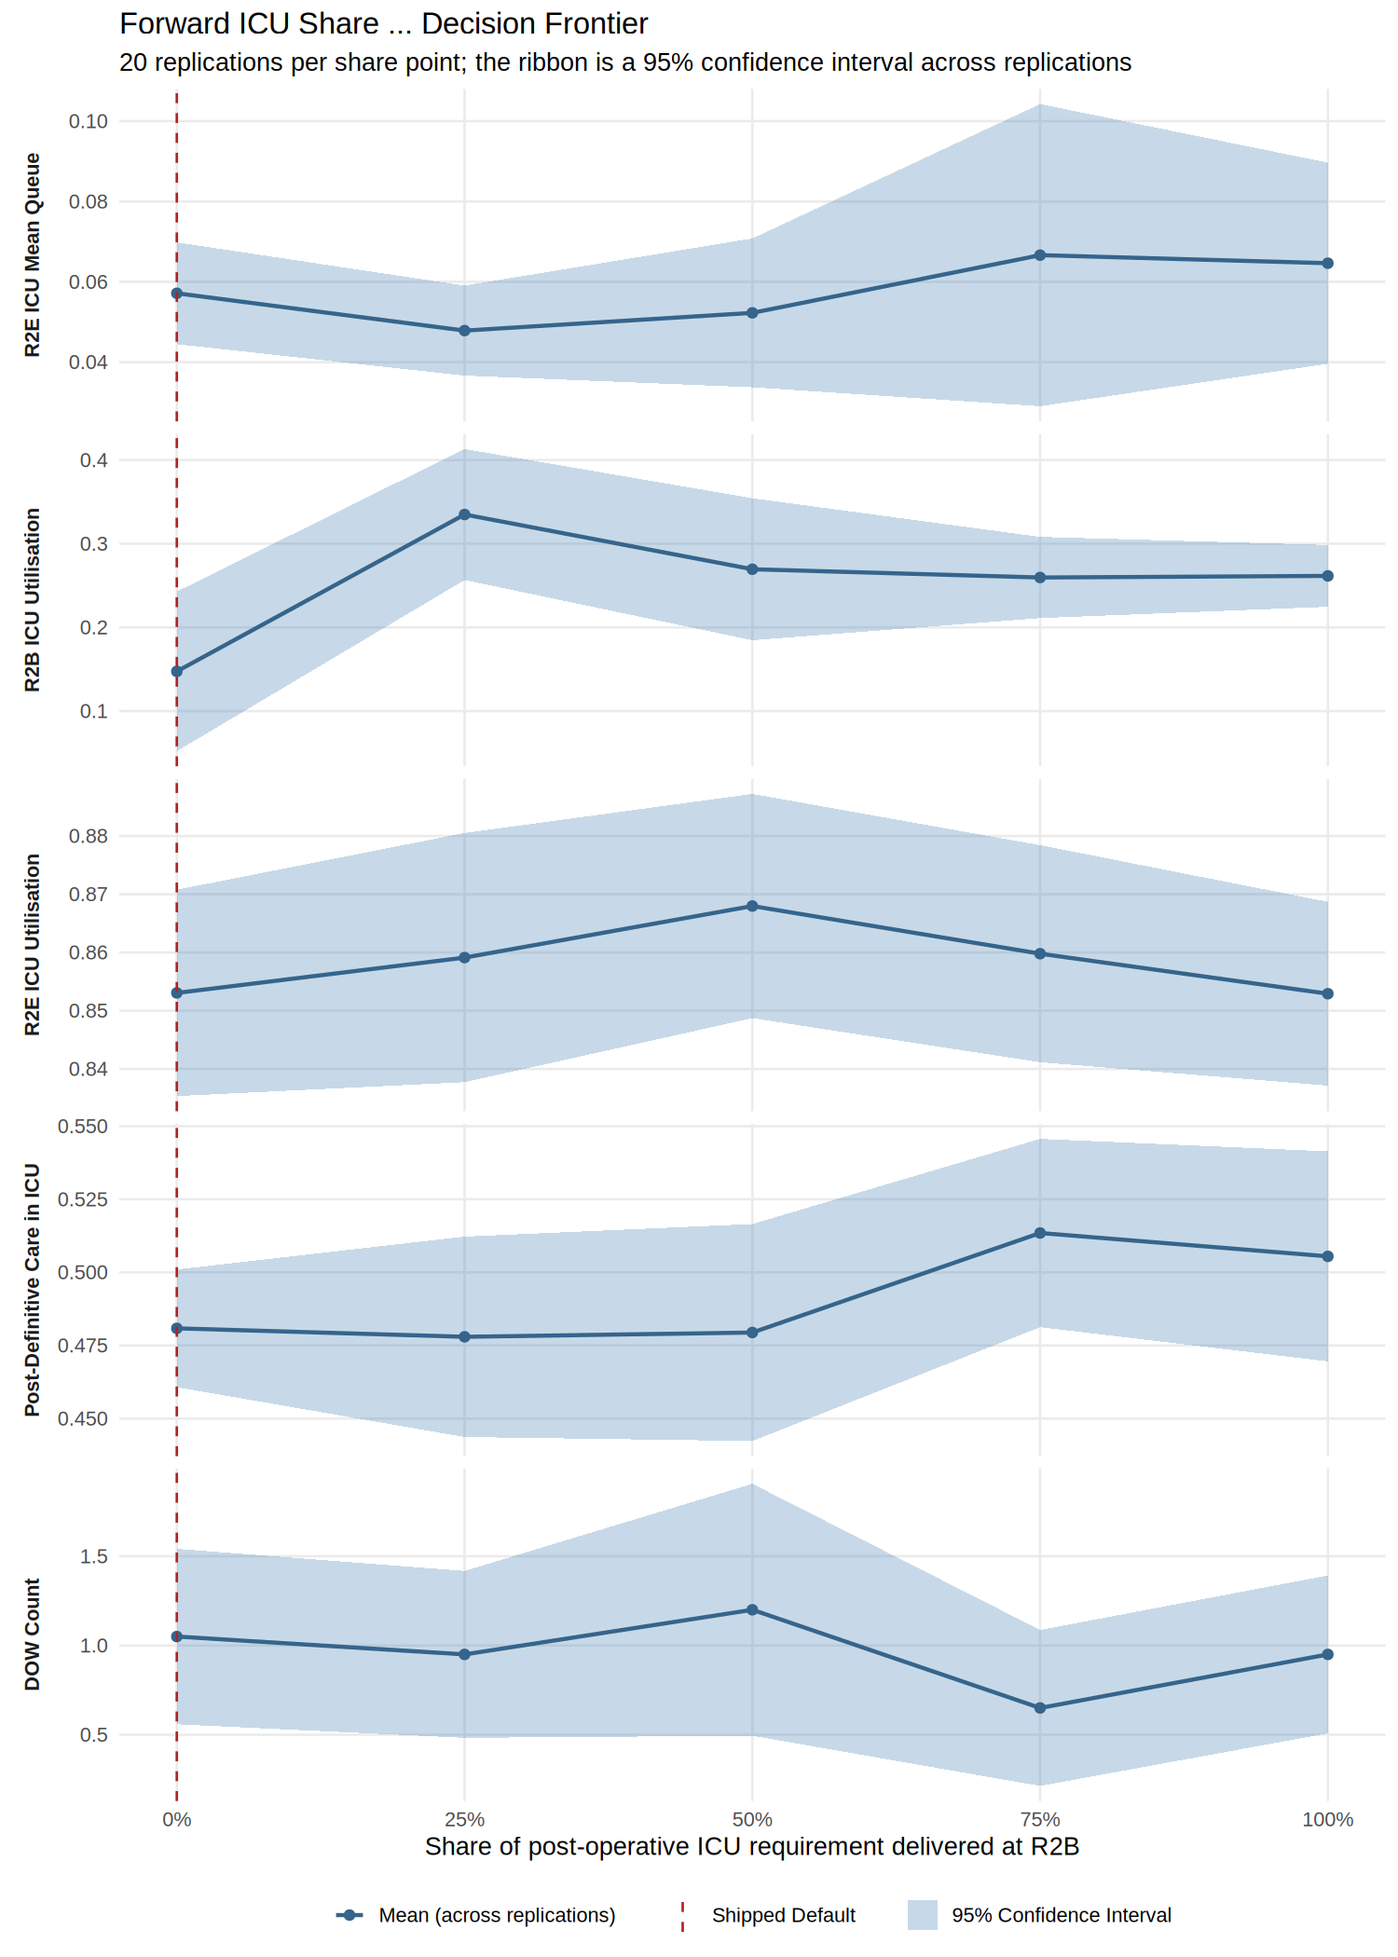
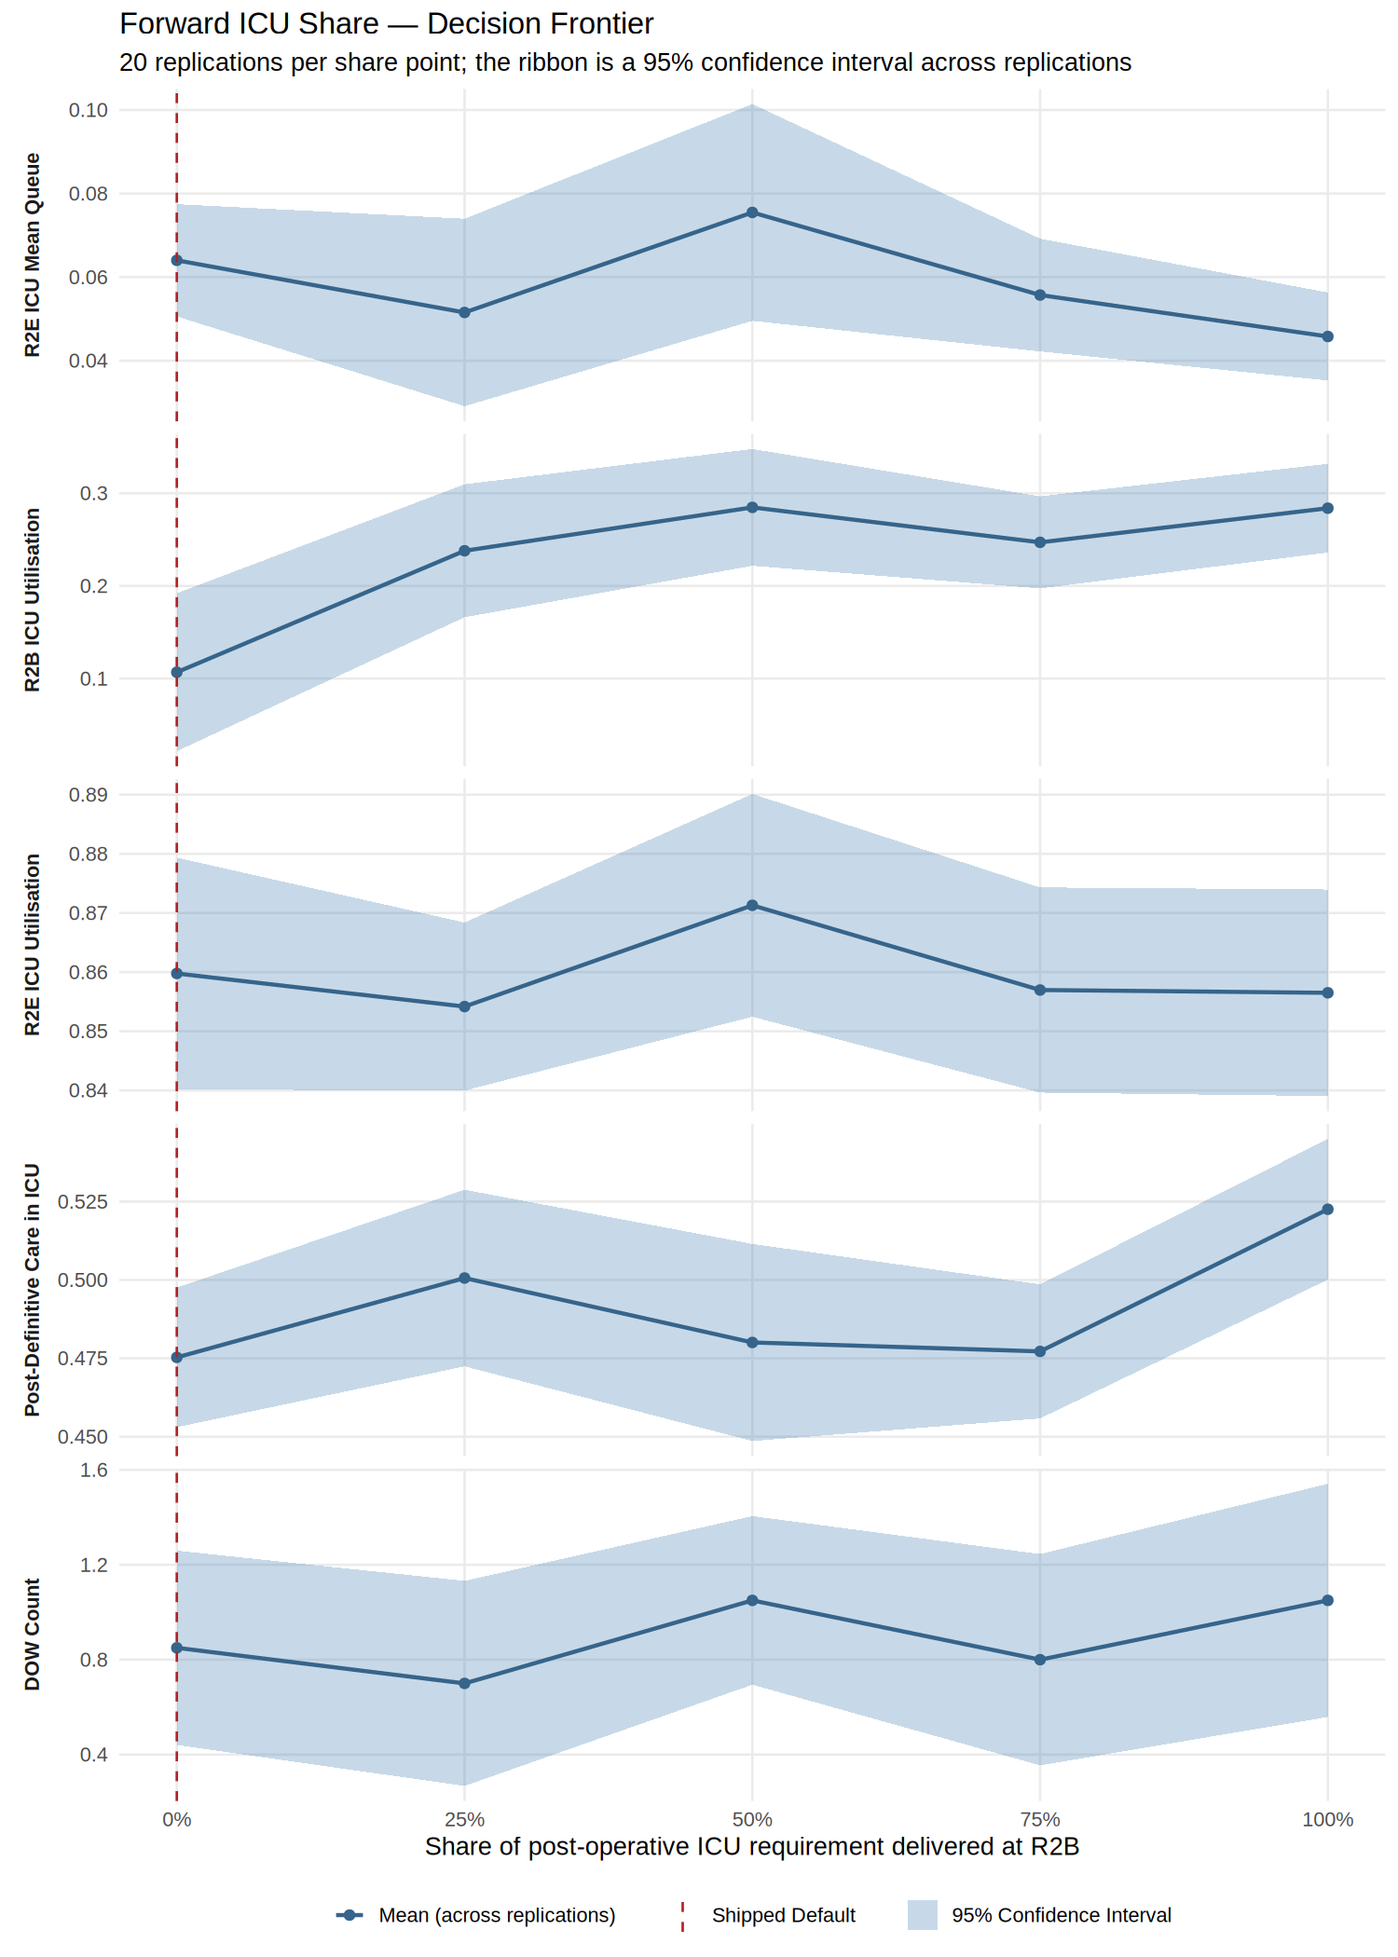
docs(issue-189): regenerate the single-run analysis sweeps over independent replications
docs/Single_Run_Analysis.md was the one published document not covered by the
earlier commits, and it carries three sets of multi-replication intervals from
the affected path.

Re-measured over independent replications:
- transport fleet-size sweep, 9 points x 10 replications
- forward ICU share sweep, 5 points x 20 replications

Both conclusions survive intact. The fleet still carries margin well beyond one
vehicle of headroom, with the queue collapsing to zero by two vehicles on both
platforms; the forward ICU share lever is still flat across its whole range.
images/transport_capacity_margin_by_fleet_size.png and
images/r2b_icu_share_frontier.png are regenerated with them.

The transport utilisation column is now described accurately rather than as
merely noisy: it rises with fleet size on both platforms, which is backwards,
and the interval on HX240M at three vehicles spans 1.3% to 30.6%. Only the
queue column carries weight at ten replications.

The pre- versus post-Issue-43 comparison keeps its original intervals and says
so in place. Its "before" arm is a configuration no longer in the codebase, so
it cannot be re-run, and the paragraph's conclusion — that the intervals
overlap and the comparison does not reach significance — is only reinforced by
intervals that should be wider.

Refs #189

diff --git a/docs/Single_Run_Analysis.md b/docs/Single_Run_Analysis.md
@@ -178,13 +178,15 @@ Relieving the ICU constraint moves casualties through the pre-OT gate rather tha
 
 Sub-optimal care (red — surgery proceeded despite ICU saturation, Priority 1 override to holding-bed recovery) and delayed care (orange — OT entry deferred pending ICU availability, Priority 2+) cluster on the higher-arrival days later in the run, consistent with cumulative ICU demand outstripping the four-bed establishment as surgical volume accumulates. `outputs/r2e_icu_gating_daily.csv` and `outputs/post_op_pathway_summary.csv` provide the underlying daily and pathway-level counts.
 
-**50-replication validation (seed = NULL, 30 days) confirms the effect generalises beyond seed 42.** Comparing 50 independent replications pre- and post-Issue-43: mean R2E ICU utilisation fell from **74.1% to 60.2%** — a substantial, consistently-observed reduction in ICU load, not a seed-42 artefact. Mean DOW/run rose from **0.84 (95% CI [0.58, 1.10]) to 1.00 (95% CI [0.74, 1.26])** — the two confidence intervals overlap substantially, so this specific comparison does not reach conventional statistical significance at n = 50 (DOW remains a rare event; a properly powered before/after comparison would need a considerably larger replication count). The increase is, however, fully attributable to the new post-operative checkpoint: it contributed a mean of 0.10 DOW/run on its own (5 of 50 replications), accounting for essentially the entire point-estimate shift. Within that checkpoint, the qualitative design intent held using the real (non-stress-tested) parameters: the post-op hold pathway's realised DOW rate (2 deaths / 1,223 patients = 0.16%) was roughly **2.8× the ICU pathway's rate** (3 deaths / 5,085 patients = 0.06%) — the elevated-risk pathway is measurably, not just theoretically, riskier at baseline casualty rates, though the small absolute counts mean this ratio itself carries wide uncertainty.
+**50-replication validation (seed = NULL, 30 days) confirms the effect generalises beyond seed 42.** Comparing 50 independent replications pre- and post-Issue-43: mean R2E ICU utilisation fell from **74.1% to 60.2%** — a substantial, consistently-observed reduction in ICU load, not a seed-42 artefact. Mean DOW/run rose from **0.84 (95% CI [0.58, 1.10]) to 1.00 (95% CI [0.74, 1.26])** — the two confidence intervals overlap substantially, so this specific comparison does not reach conventional statistical significance at n = 50 (DOW remains a rare event; a properly powered before/after comparison would need a considerably larger replication count). The increase is, however, fully attributable to the new post-operative checkpoint: it contributed a mean of 0.10 DOW/run on its own (5 of 50 replications), accounting for essentially the entire point-estimate shift. Within that checkpoint, the qualitative design intent held using the real (non-stress-tested) parameters: the post-op hold pathway's realised DOW rate (2 deaths / 1,223 patients = 0.16%) was roughly **2.8× the ICU pathway's rate** (3 deaths / 5,085 patients = 0.06%) — the elevated-risk pathway is measurably, not just theoretically, riskier at baseline casualty rates, though the small absolute counts mean this ratio itself carries wide uncertainty. The intervals in this paragraph alone are as originally computed, over replications that were antithetically paired while the interval divided by the replication count, which makes them narrower than the runs entitle them to be. They are not recomputed because the comparison is against a configuration that no longer exists in the codebase, so the "before" arm cannot be re-run; the paragraph's own conclusion, that the two intervals overlap and the comparison does not reach significance at n = 50, is only reinforced by intervals that should be wider. Every other interval in this document has been regenerated over independent replications.
 
 ![Alt text](../images/r2eheavy_gantt.png)
 
 ![Alt text](../images/r2eheavy_surgeries.png)
 
 > **Reproducibility note:** the seed-42 30-day figures throughout this document were regenerated after the surgical population was split between the staged damage control pathway and a single-stage definitive procedure, in an ad hoc R 4.3.3 sandbox rather than the project's pinned `rocker/rstudio:4.4.2` Dev Container, following the same practice and caveat used for prior unpinned-sandbox figures in this project (see the `CLAUDE.md` Key Parameters provenance caveat). As a check on that sandbox, the same seed-42 run made immediately *before* the change reproduced every documented figure in `CLAUDE.md` exactly, including total casualties (385), the R2B surgical decision point and bypass counts, the first and second surgery counts, the post-operative and post-definitive pathway splits and the deferred-surgery count. The change is not random-number-stream-neutral: roughly half of operated casualties now take one theatre episode and one intensive care episode instead of two of each, so beds and theatres free sooner, and because Issue #18's force-regeneration loop couples arrival timing to casualty-event timing, even total casualty count moves (385 to 386). Setting every damage control rate to 1.0 reproduces the pre-change run bit-identically, which is what establishes the split as a generalisation of the previous model rather than a replacement for it. The 50-replication figures reported below and elsewhere in this document were not recomputed except where explicitly stated.
+
+> **Currency note (Issue #189):** the multi-replication intervals in this document were subsequently regenerated over independent replications, after antithetic pairing was withdrawn from `run_replications()` (see README [Multi-run Replication Framework](../README.md#multi-run-replication-framework)). The pairing made the pair, not the replication, the unit the design supplied, while every interval divided by the replication count, so the point estimates stood and the widths did not. The transport fleet-size sweep, the forward ICU share sweep and the in-theatre share were re-measured and their figures below reflect that; `images/transport_capacity_margin_by_fleet_size.png` and `images/r2b_icu_share_frontier.png` were regenerated with them. The seed-42 single-run figures are unaffected, the correction consuming no random draws and reproducing the run bit-identically. The one exception is noted in place, at the pre- versus post-Issue-43 comparison.
 
 When examined in system context, the combined OT capacity of two R2B elements and one R2E Heavy is adequate for a single combat brigade under Falklands-equivalent casualty rates [[1]](#References). However, if this system were applied to a deployed division, surgical and holding capacity would be grossly insufficient even if only one brigade was assumed to be in contact at any time. The modelled scenario also does not account for mass-casualty events or the elevated casualty production rates reported in FORECAS modelling of campaigns such as Okinawa or Vietnam, both of which would expose this deficit [[1]](#References).
 
@@ -206,13 +208,13 @@ Under seed 42 (30 days), the queue for every PMV Ambulance and HX240M unit remai
 
 | Fleet size | PMV Ambulance mean queue (95% CI) | PMV Ambulance mean utilisation | HX240M mean queue (95% CI) | HX240M mean utilisation |
 |---|---|---|---|---|
-| 1 | 0.0395 (0.0339–0.0452) | 32.5% | 0.0038 (0.0020–0.0056) | 10.0% |
-| 2 | 0.0008 (0.0004–0.0012) | 16.3% | 0.0000 | 20.2% |
-| 3 (current) | 0.00004 (0–0.0001) | 20.8% | 0.0000 | 20.8% |
-| 4 (current) | 0.0000 | 10.8% | 0.0000 | 7.2% |
-| 5 | 0.0000 | 14.2% | — | — |
+| 1 | 0.0390 (0.0308–0.0472) | 30.4% | 0.0024 (0.0013–0.0035) | 9.6% |
+| 2 | 0.0009 (0.0003–0.0014) | 15.4% | 0.0000 | 5.1% |
+| 3 (current) | 0.0000 | 14.9% | 0.0000 | 15.9% |
+| 4 (current) | 0.0000 | 18.6% | 0.0000 | 21.0% |
+| 5 | 0.0000 | 21.8% | — | — |
 
-At a single vehicle, both fleets show a materially non-zero mean queue — confirming the sweep can locate a genuine capacity boundary rather than only reproducing the current always-zero finding. Queue collapses to a negligible fraction of a casualty by two vehicles for both platforms and stays there through the current three/four-vehicle establishment and beyond, out to the top of the swept range. This demonstrates the current fleet carries margin well beyond what a single additional vehicle of headroom would provide: PMV Ambulance could in principle be reduced from three to two vehicles, and HX240M from four to two, while the mean queue at the current Falklands-derived casualty rate would remain close to zero. Mean utilisation across the swept range is noisy rather than monotonically decreasing (e.g. HX240M utilisation is higher at 2–3 vehicles than at 4) — expected at this casualty rate, since so few transport events occur per replication that the busy-time estimate at each sweep point carries wide sampling variance, visible in the correspondingly wide 95% CI ribbons on the utilisation panels of the plot above. `outputs/transport_capacity_by_fleet_size.csv` provides the full per-point results, including CI bounds omitted from the table above.
+At a single vehicle, both fleets show a materially non-zero mean queue — confirming the sweep can locate a genuine capacity boundary rather than only reproducing the current always-zero finding. Queue collapses to a negligible fraction of a casualty by two vehicles for both platforms and stays there through the current three/four-vehicle establishment and beyond, out to the top of the swept range. This demonstrates the current fleet carries margin well beyond what a single additional vehicle of headroom would provide: PMV Ambulance could in principle be reduced from three to two vehicles, and HX240M from four to two, while the mean queue at the current Falklands-derived casualty rate would remain close to zero. Mean utilisation across the swept range is not merely noisy but runs the wrong way, rising with fleet size on both platforms where a fixed demand spread over more vehicles should lower it. That is sampling variance rather than a finding: so few transport events occur per replication that the busy-time estimate at each sweep point is barely determined, and the interval on HX240M utilisation at three vehicles spans 1.3% to 30.6%. The correspondingly wide 95% CI ribbons on the utilisation panels of the plot above show the same thing. Only the queue column, where the zeros are exact rather than estimated, carries weight at this replication count. `outputs/transport_capacity_by_fleet_size.csv` provides the full per-point results, including CI bounds omitted from the table above.
 
 ## Forward ICU Share Decision Frontier
 
@@ -222,17 +224,17 @@ A casualty's stabilisation requirement is a single quantity divided between R2B 
 
 | Forward ICU share | R2E ICU mean queue (95% CI) | R2B ICU utilisation | R2E ICU utilisation | Post-definitive care in ICU (95% CI) | Mean DOW per run (95% CI) |
 |---|---|---|---|---|---|
-| 0% (shipped) | 0.057 (0.044–0.070) | 14.7% | 85.3% | 48.1% (46.1–50.1) | 1.05 (0.56–1.54) |
-| 25% | 0.048 (0.037–0.059) | 33.5% | 85.9% | 47.8% (44.4–51.2) | 0.95 (0.48–1.42) |
-| 50% | 0.052 (0.034–0.071) | 27.0% | 86.8% | 47.9% (44.2–51.7) | 1.20 (0.49–1.91) |
-| 75% | 0.067 (0.029–0.104) | 26.0% | 86.0% | 51.3% (48.1–54.6) | 0.65 (0.21–1.09) |
-| 100% | 0.065 (0.040–0.090) | 26.2% | 85.3% | 50.5% (47.0–54.1) | 0.95 (0.51–1.39) |
+| 0% (shipped) | 0.064 (0.051–0.077) | 10.7% | 86.0% | 47.5% (45.3–49.8) | 0.85 (0.44–1.26) |
+| 25% | 0.052 (0.029–0.074) | 23.8% | 85.4% | 50.1% (47.2–52.9) | 0.70 (0.27–1.13) |
+| 50% | 0.075 (0.050–0.101) | 28.5% | 87.1% | 48.0% (44.9–51.2) | 1.05 (0.69–1.41) |
+| 75% | 0.056 (0.042–0.069) | 24.7% | 85.7% | 47.7% (45.6–49.9) | 0.80 (0.35–1.25) |
+| 100% | 0.046 (0.035–0.056) | 28.4% | 85.7% | 52.3% (50.0–54.5) | 1.05 (0.56–1.54) |
 
-Once only the damage control cohort has a stabilisation phase to move, the lever stops earning its keep. Every quantity in the table above is now flat across the swept range. The R2E intensive care queue moves between 0.048 and 0.067 casualties with overlapping intervals and no trend; R2E utilisation sits between 85.3% and 86.8% at every setting; and the share of casualties receiving post-definitive care in an intensive care bed, which rose monotonically from 35.5% to 47.5% when every operated casualty took the staged pathway, now varies between 47.8% and 51.3% with every interval overlapping every other.
+Once only the damage control cohort has a stabilisation phase to move, the lever stops earning its keep. Every quantity in the table above is now flat across the swept range. The R2E intensive care queue moves between 0.046 and 0.075 casualties with overlapping intervals and no trend; R2E utilisation sits between 85.4% and 87.1% at every setting; and the share of casualties receiving post-definitive care in an intensive care bed, which rose monotonically from 35.5% to 47.5% when every operated casualty took the staged pathway, now varies between 47.5% and 52.3% with every interval overlapping every other.
 
-The reason is the size of the population the lever acts on. Roughly half of operated casualties take the single-stage pathway, and they have no stabilisation phase to move; of the remainder, only those operated on forward at R2B can have any of it served forward. What is left is a small enough cohort that shifting all of their stabilisation forward does not measurably relieve a unit running at 85% occupancy. R2B intensive care utilisation confirms the mechanism is still working rather than broken: it rises from 14.7% at a zero share, where the beds serve only the evacuation wait, to between 26% and 34% once forward holding is enabled, so load genuinely moves. It simply does not move enough to change the rearward picture.
+The reason is the size of the population the lever acts on. Roughly half of operated casualties take the single-stage pathway, and they have no stabilisation phase to move; of the remainder, only those operated on forward at R2B can have any of it served forward. What is left is a small enough cohort that shifting all of their stabilisation forward does not measurably relieve a unit running at 85% occupancy. R2B intensive care utilisation confirms the mechanism is still working rather than broken: it rises from 10.7% at a zero share, where the beds serve only the evacuation wait, to between 24% and 29% once forward holding is enabled, so load genuinely moves. It simply does not move enough to change the rearward picture.
 
-The mortality column remains unresolved and is now doubly so. Mean deaths of wounds per run move 1.05, 0.95, 1.20, 0.65, 0.95 across the five points with every confidence interval overlapping every other, and the non-monotonic ordering is characteristic of sampling noise rather than of a trade-off. Deaths of wounds are rare at this casualty rate, and the capability penalty applies only to the fraction of a fraction that is operated on forward and holds there, so 20 replications cannot separate an effect of this size from noise.
+The mortality column remains unresolved and is now doubly so. Mean deaths of wounds per run move 0.85, 0.70, 1.05, 0.80, 1.05 across the five points with every confidence interval overlapping every other, and the non-monotonic ordering is characteristic of sampling noise rather than of a trade-off. Deaths of wounds are rare at this casualty rate, and the capability penalty applies only to the fraction of a fraction that is operated on forward and holds there, so 20 replications cannot separate an effect of this size from noise.
 
 The shipped default therefore stays at zero, and the case for changing it is now weaker rather than merely unproven. The earlier frontier, which appeared to show a monotonic gain in post-definitive intensive care access, was measured against a model that routed every operated casualty through the staged pathway; the gain it showed was in proportion to a cohort roughly twice the size of the real one. What the corrected frontier shows is a lever with a real mechanism and no measurable benefit at Falklands-equivalent load. It may still matter at higher casualty rates, where R2E intensive care is the binding constraint by a wider margin, and that is the experiment worth running next.
 
